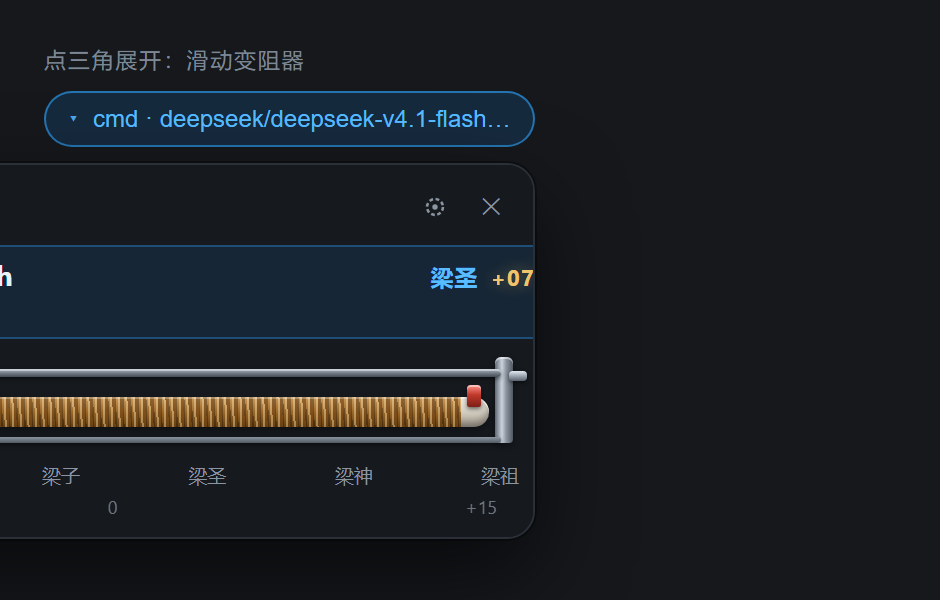
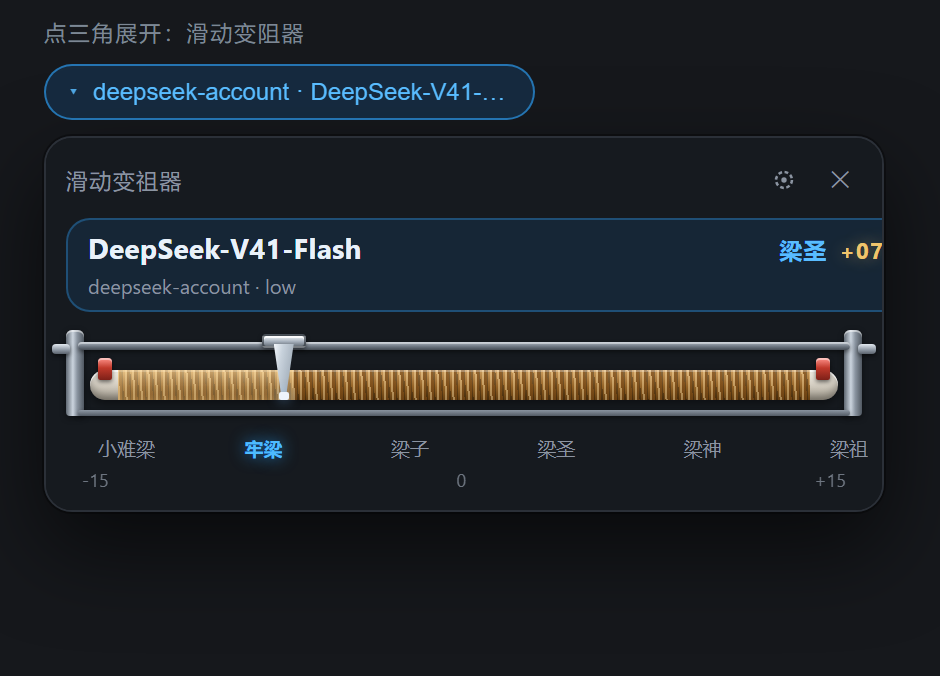
docs: 重做界面截图（按内容自动裁边、补全 31 档设置与背景示意）

diff --git a/tools/preview-entry.js b/tools/preview-entry.js
@@ -67,14 +67,14 @@ function settings(stageMode) {
   </div>`
 }
 
-export const markup = ({ score = 0, expanded = false, view = 'slider', stageMode = true, blocked, inline = false }) =>
-  `<div class="ls-root"${inline ? ' style="display: inline-flex"' : ''}>
+export const markup = ({ score = 0, expanded = false, view = 'slider', stageMode = true, blocked, inline = false, route = 'deepseek-account · DeepSeek-V41-Flash · low' }) =>
+  `<div class="ls-root"${inline ? ' style="display: block"' : ''}>
   <button type="button" class="ls-trigger${expanded ? ' ls-trigger-on' : ''}">
     <span class="ls-tri">${expanded ? '▾' : '▸'}</span>
-    <span class="ls-trigger-text">cmd · deepseek/deepseek-v4.1-flash · max</span>
+    <span class="ls-trigger-text">${route}</span>
   </button>
   ${blocked === undefined ? '' : `<span class="ls-blocked">${blocked}<button type="button" class="ls-retry">重试</button></span>`}
-  ${expanded ? `<div class="ls-popover" style="position: absolute; right: 0; top: calc(100% + 8px); width: 420px; max-height: none">
+  ${expanded ? `<div class="ls-popover" style="position: static; width: 420px; max-height: none; margin-top: 8px">
     <div class="ls-popover-head">
       ${view === 'settings'
         ? `<span class="ls-mode"><button type="button" class="ls-mode-btn${stageMode ? ' ls-mode-on' : ''}">按状态 6</button><button type="button" class="ls-mode-btn${stageMode ? '' : ' ls-mode-on'}">按档位 31</button></span>`

diff --git a/tools/trim-png.py b/tools/trim-png.py
@@ -1,0 +1,24 @@
+"""按内容裁掉截图四周的纯背景边距（用于 README 配图）。
+
+用法：python tools/trim-png.py <png> [pad]
+"""
+import sys
+from PIL import Image, ImageChops
+
+path = sys.argv[1]
+pad = int(sys.argv[2]) if len(sys.argv) > 2 else 20
+
+image = Image.open(path).convert("RGB")
+background = Image.new("RGB", image.size, image.getpixel((0, 0)))
+box = ImageChops.difference(image, background).getbbox()
+if box is None:
+    print(f"{path}: 全图都是背景色，跳过")
+    sys.exit(0)
+
+left = max(0, box[0] - pad)
+top = max(0, box[1] - pad)
+right = min(image.width, box[2] + pad)
+bottom = min(image.height, box[3] + pad)
+cropped = image.crop((left, top, right, bottom))
+cropped.save(path)
+print(f"{path}: {image.width}x{image.height} -> {cropped.width}x{cropped.height}")
